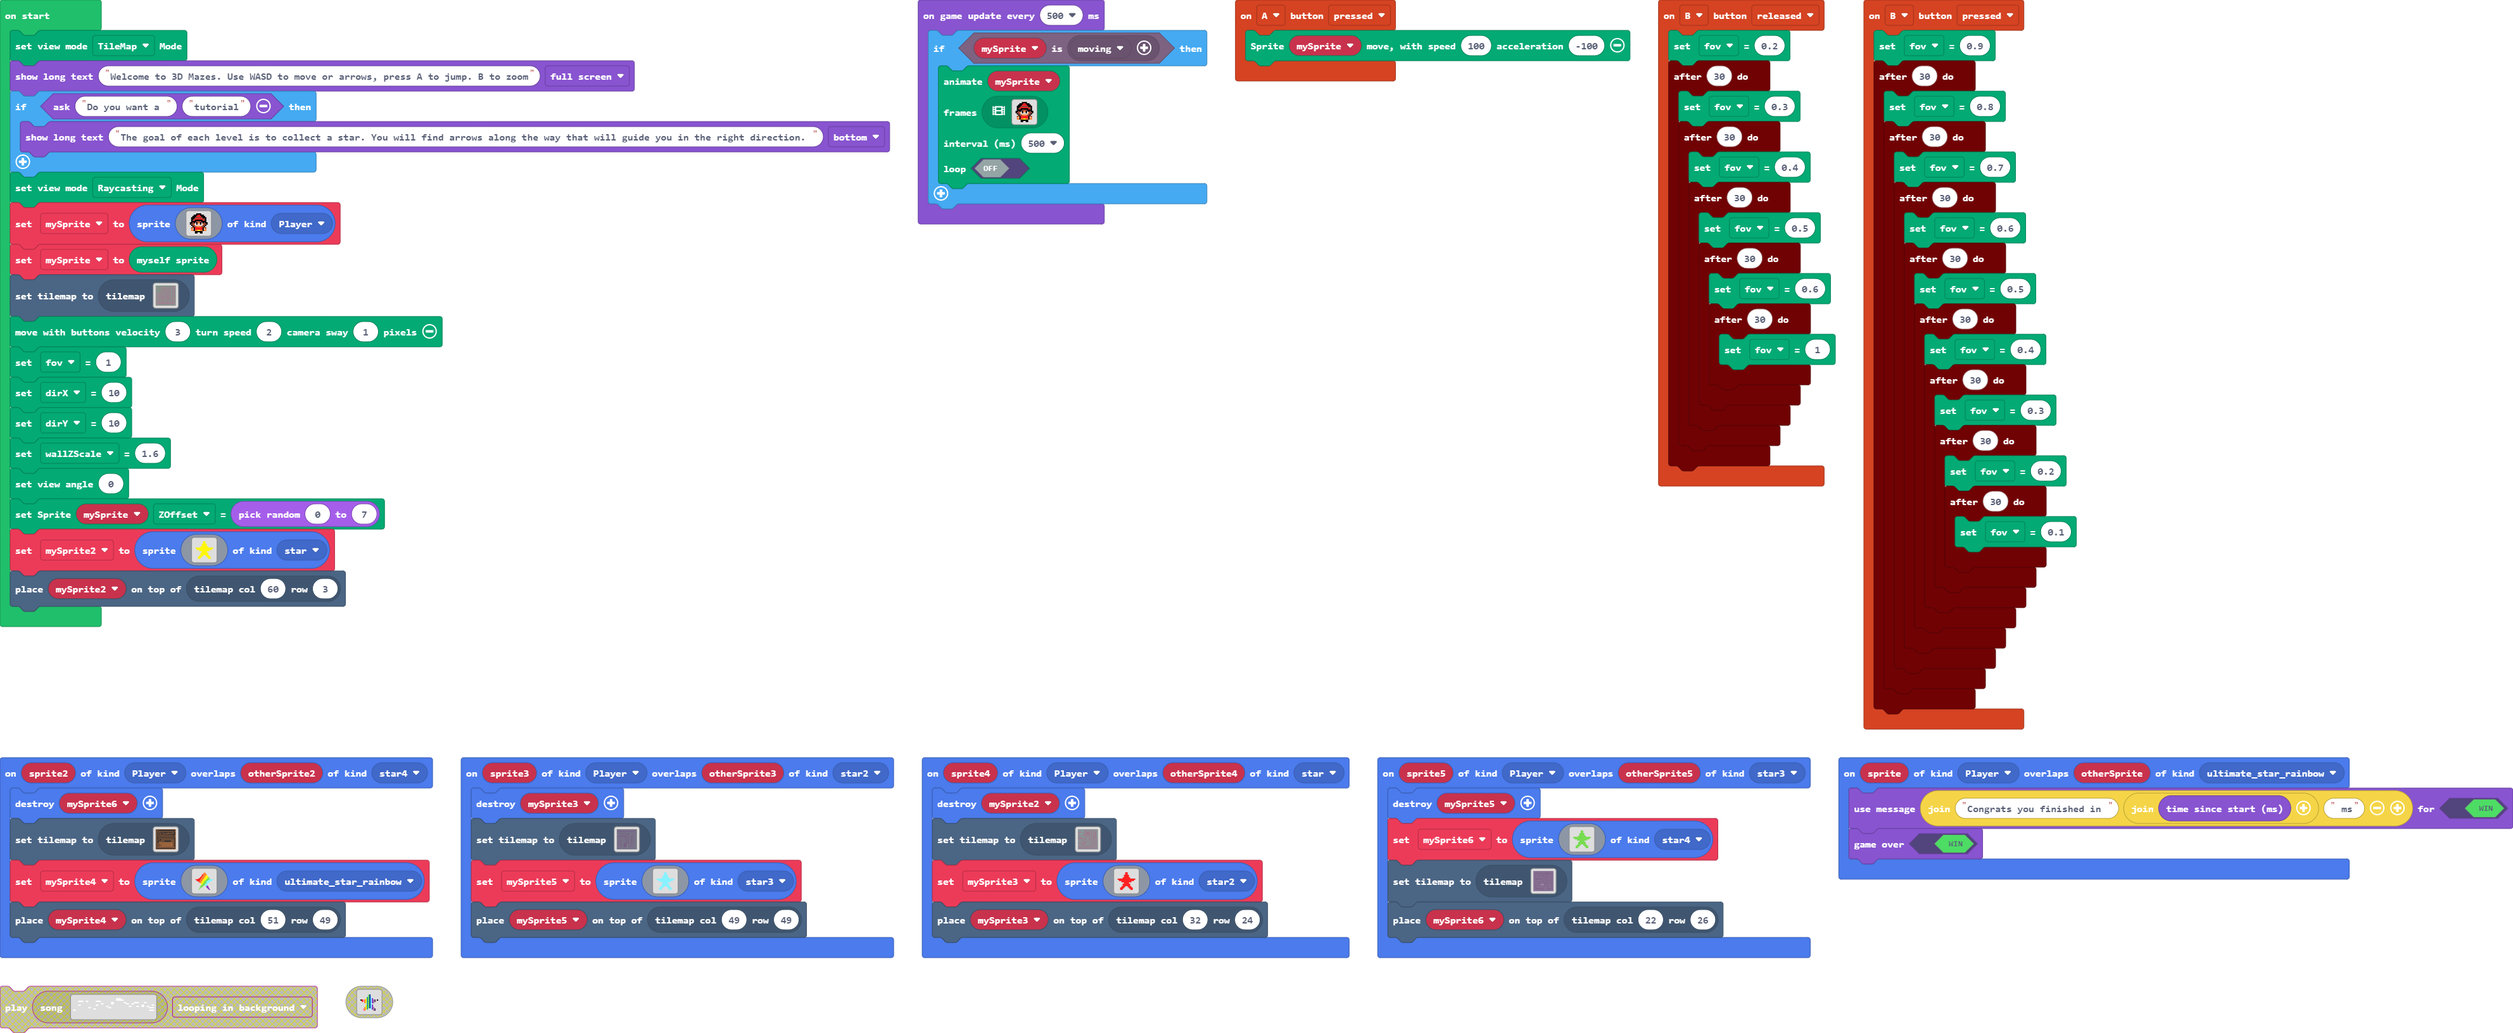
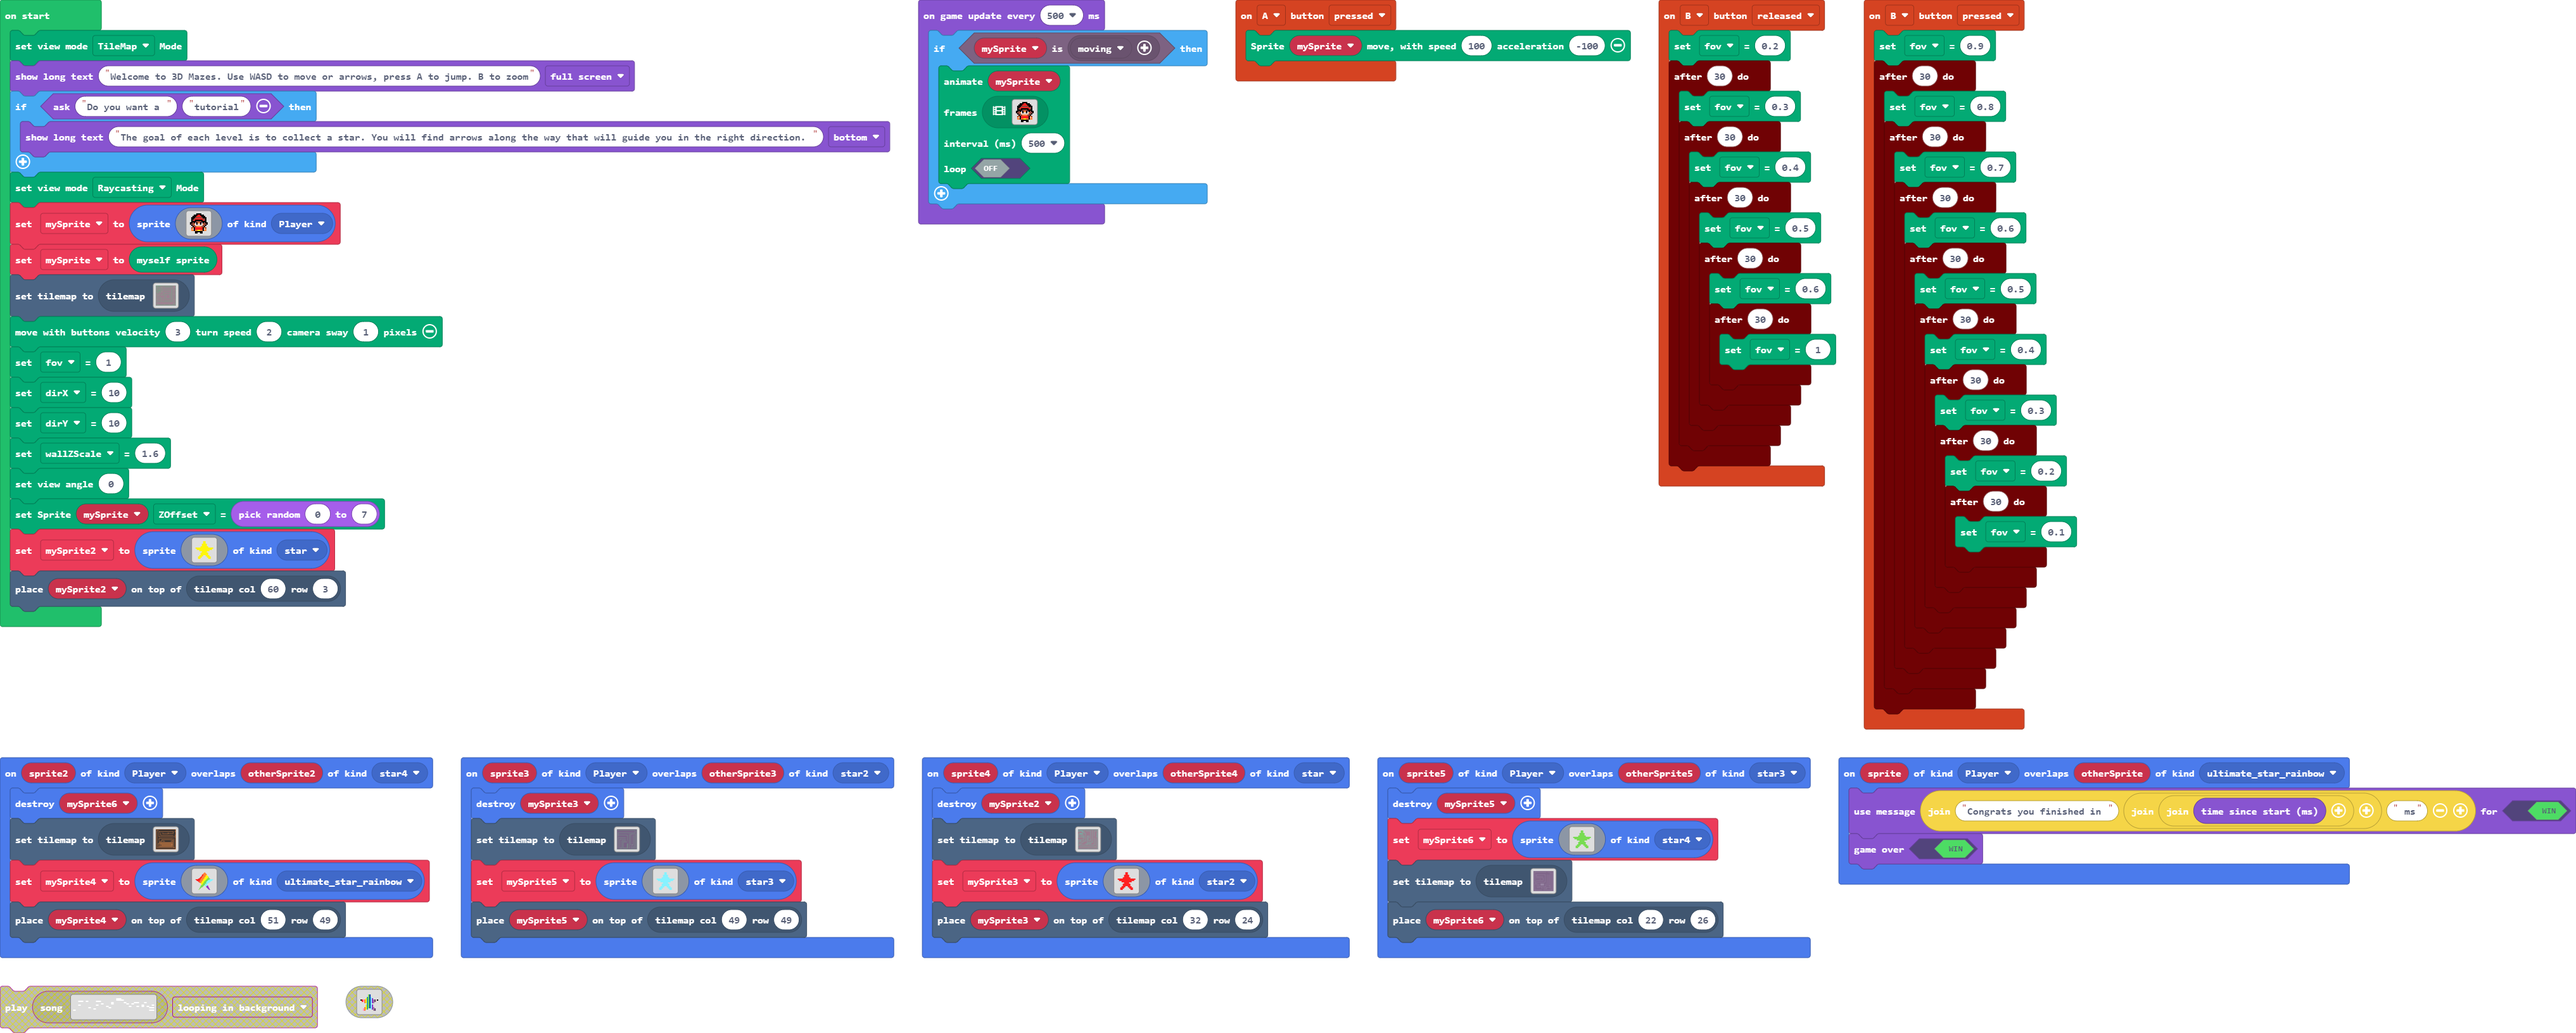
Update main.blocks, README.md, tilemap.g.jres, tilemap.g.ts, main.py

diff --git a/tilemap.g.ts b/tilemap.g.ts
@@ -1085,6 +1085,101 @@ namespace myTiles {
 2..............................................................2
 2222222222222222222222222222222222222222222222222222222222222222
 `, [myTiles.transparency16,sprites.builtin.oceanSand8,sprites.builtin.coral0,myTiles.tile7,myTiles.tile5,myTiles.tile4], TileScale.Sixteen);
+            case "level32":
+            case "level32":return tiles.createTilemap(hex`1000100000000000000000000000000000000000000000000000000000000000000000000000000000000000000000000000000000000000000000000000000000000000000000000000000000000000000000000000000000000000000000000000000000000000000000000000000000000000000000000000000000000000000000000000000000000000000000000000000000000000000000000000000000000000000000000000000000000000000000000000000000000000000000000000000000000000000000000000000000000000000000000000000000000000000000000000000000000000000000000000000000000000000000000000000000000000`, img`
+. . . . . . . . . . . . . . . . 
+. . . . . . . . . . . . . . . . 
+. . . . . . . . . . . . . . . . 
+. . . . . . . . . . . . . . . . 
+. . . . . . . . . . . . . . . . 
+. . . . . . . . . . . . . . . . 
+. . . . . . . . . . . . . . . . 
+. . . . . . . . . . . . . . . . 
+. . . . . . . . . . . . . . . . 
+. . . . . . . . . . . . . . . . 
+. . . . . . . . . . . . . . . . 
+. . . . . . . . . . . . . . . . 
+. . . . . . . . . . . . . . . . 
+. . . . . . . . . . . . . . . . 
+. . . . . . . . . . . . . . . . 
+. . . . . . . . . . . . . . . . 
+`, [myTiles.transparency16], TileScale.Sixteen);
+            case "level33":
+            case "level33":return tiles.createTilemap(hex`1000100000000000000000000000000000000000000000000000000000000000000000000000000000000000000000000000000000000000000000000000000000000000000000000000000000000000000000000000000000000000000000000000000000000000000000000000000000000000000000000000000000000000000000000000000000000000000000000000000000000000000000000000000000000000000000000000000000000000000000000000000000000000000000000000000000000000000000000000000000000000000000000000000000000000000000000000000000000000000000000000000000000000000000000000000000000000`, img`
+. . . . . . . . . . . . . . . . 
+. . . . . . . . . . . . . . . . 
+. . . . . . . . . . . . . . . . 
+. . . . . . . . . . . . . . . . 
+. . . . . . . . . . . . . . . . 
+. . . . . . . . . . . . . . . . 
+. . . . . . . . . . . . . . . . 
+. . . . . . . . . . . . . . . . 
+. . . . . . . . . . . . . . . . 
+. . . . . . . . . . . . . . . . 
+. . . . . . . . . . . . . . . . 
+. . . . . . . . . . . . . . . . 
+. . . . . . . . . . . . . . . . 
+. . . . . . . . . . . . . . . . 
+. . . . . . . . . . . . . . . . 
+. . . . . . . . . . . . . . . . 
+`, [myTiles.transparency16], TileScale.Sixteen);
+            case "level34":
+            case "level34":return tiles.createTilemap(hex`1000100000000000000000000000000000000000000000000000000000000000000000000000000000000000000000000000000000000000000000000000000000000000000000000000000000000000000000000000000000000000000000000000000000000000000000000000000000000000000000000000000000000000000000000000000000000000000000000000000000000000000000000000000000000000000000000000000000000000000000000000000000000000000000000000000000000000000000000000000000000000000000000000000000000000000000000000000000000000000000000000000000000000000000000000000000000000`, img`
+. . . . . . . . . . . . . . . . 
+. . . . . . . . . . . . . . . . 
+. . . . . . . . . . . . . . . . 
+. . . . . . . . . . . . . . . . 
+. . . . . . . . . . . . . . . . 
+. . . . . . . . . . . . . . . . 
+. . . . . . . . . . . . . . . . 
+. . . . . . . . . . . . . . . . 
+. . . . . . . . . . . . . . . . 
+. . . . . . . . . . . . . . . . 
+. . . . . . . . . . . . . . . . 
+. . . . . . . . . . . . . . . . 
+. . . . . . . . . . . . . . . . 
+. . . . . . . . . . . . . . . . 
+. . . . . . . . . . . . . . . . 
+. . . . . . . . . . . . . . . . 
+`, [myTiles.transparency16], TileScale.Sixteen);
+            case "level35":
+            case "level35":return tiles.createTilemap(hex`1000100000000000000000000000000000000000000000000000000000000000000000000000000000000000000000000000000000000000000000000000000000000000000000000000000000000000000000000000000000000000000000000000000000000000000000000000000000000000000000000000000000000000000000000000000000000000000000000000000000000000000000000000000000000000000000000000000000000000000000000000000000000000000000000000000000000000000000000000000000000000000000000000000000000000000000000000000000000000000000000000000000000000000000000000000000000000`, img`
+. . . . . . . . . . . . . . . . 
+. . . . . . . . . . . . . . . . 
+. . . . . . . . . . . . . . . . 
+. . . . . . . . . . . . . . . . 
+. . . . . . . . . . . . . . . . 
+. . . . . . . . . . . . . . . . 
+. . . . . . . . . . . . . . . . 
+. . . . . . . . . . . . . . . . 
+. . . . . . . . . . . . . . . . 
+. . . . . . . . . . . . . . . . 
+. . . . . . . . . . . . . . . . 
+. . . . . . . . . . . . . . . . 
+. . . . . . . . . . . . . . . . 
+. . . . . . . . . . . . . . . . 
+. . . . . . . . . . . . . . . . 
+. . . . . . . . . . . . . . . . 
+`, [myTiles.transparency16], TileScale.Sixteen);
+            case "level36":
+            case "level36":return tiles.createTilemap(hex`1000100000000000000000000000000000000000000000000000000000000000000000000000000000000000000000000000000000000000000000000000000000000000000000000000000000000000000000000000000000000000000000000000000000000000000000000000000000000000000000000000000000000000000000000000000000000000000000000000000000000000000000000000000000000000000000000000000000000000000000000000000000000000000000000000000000000000000000000000000000000000000000000000000000000000000000000000000000000000000000000000000000000000000000000000000000000000`, img`
+. . . . . . . . . . . . . . . . 
+. . . . . . . . . . . . . . . . 
+. . . . . . . . . . . . . . . . 
+. . . . . . . . . . . . . . . . 
+. . . . . . . . . . . . . . . . 
+. . . . . . . . . . . . . . . . 
+. . . . . . . . . . . . . . . . 
+. . . . . . . . . . . . . . . . 
+. . . . . . . . . . . . . . . . 
+. . . . . . . . . . . . . . . . 
+. . . . . . . . . . . . . . . . 
+. . . . . . . . . . . . . . . . 
+. . . . . . . . . . . . . . . . 
+. . . . . . . . . . . . . . . . 
+. . . . . . . . . . . . . . . . 
+. . . . . . . . . . . . . . . . 
+`, [myTiles.transparency16], TileScale.Sixteen);
         }
         return null;
     })

diff --git a/main.py b/main.py
@@ -8,7 +8,7 @@ class SpriteKind:
 
 def on_on_overlap(sprite, otherSprite):
     game.set_game_over_message(True,
-        "Congrats you finished in " + str(game.runtime()) + " ms")
+        "Congrats you finished in " + ("" + str(game.runtime())) + " ms")
     game.game_over(True)
 sprites.on_overlap(SpriteKind.player,
     SpriteKind.ultimate_star_rainbow,
@@ -62,7 +62,92 @@ def on_a_pressed():
     Render.move(mySprite, 100, -100)
 controller.A.on_event(ControllerButtonEvent.PRESSED, on_a_pressed)
 
-def on_on_overlap2(sprite2, otherSprite2):
+def on_b_released():
+    Render.set_attribute(Render.attribute.FOV, 0.2)
+    
+    def on_after9():
+        Render.set_attribute(Render.attribute.FOV, 0.3)
+        
+        def on_after10():
+            Render.set_attribute(Render.attribute.FOV, 0.4)
+            
+            def on_after11():
+                Render.set_attribute(Render.attribute.FOV, 0.5)
+                
+                def on_after12():
+                    Render.set_attribute(Render.attribute.FOV, 0.6)
+                    
+                    def on_after13():
+                        Render.set_attribute(Render.attribute.FOV, 1)
+                    timer.after(30, on_after13)
+                    
+                timer.after(30, on_after12)
+                
+            timer.after(30, on_after11)
+            
+        timer.after(30, on_after10)
+        
+    timer.after(30, on_after9)
+    
+controller.B.on_event(ControllerButtonEvent.RELEASED, on_b_released)
+
+def on_on_overlap2(sprite4, otherSprite4):
+    global mySprite3
+    sprites.destroy(mySprite2)
+    tiles.set_current_tilemap(tilemap("""
+        level3
+    """))
+    mySprite3 = sprites.create(img("""
+            . . . . . . . . . . . . . . . . 
+                    . . . . . . . 2 2 . . . . . . . 
+                    . . . . . . . 2 2 . . . . . . . 
+                    . . . . . . 2 2 2 2 . . . . . . 
+                    . . . . . . 2 2 2 2 . . . . . . 
+                    . . . . . 2 2 2 2 2 2 . . . . . 
+                    . 2 2 2 2 2 2 2 2 2 2 2 2 2 2 . 
+                    . . 2 2 2 2 2 2 2 2 2 2 2 2 . . 
+                    . . . . 2 2 2 2 2 2 2 2 . . . . 
+                    . . . . . . 2 2 2 2 . . . . . . 
+                    . . . . . 2 2 2 2 2 2 . . . . . 
+                    . . . . . 2 2 2 2 2 2 . . . . . 
+                    . . . . 2 2 2 . . 2 2 2 . . . . 
+                    . . . 2 2 2 . . . . 2 2 2 . . . 
+                    . . . 2 2 . . . . . . 2 2 . . . 
+                    . . . . . . . . . . . . . . . .
+        """),
+        SpriteKind.star2)
+    tiles.place_on_tile(mySprite3, tiles.get_tile_location(32, 24))
+sprites.on_overlap(SpriteKind.player, SpriteKind.star, on_on_overlap2)
+
+def on_on_overlap3(sprite5, otherSprite5):
+    global mySprite6
+    sprites.destroy(mySprite5)
+    mySprite6 = sprites.create(img("""
+            . . . . . . . . . . . . . . . . 
+                    . . . . . . . 7 7 . . . . . . . 
+                    . . . . . . . 7 7 . . . . . . . 
+                    . . . . . . 7 7 7 7 . . . . . . 
+                    . . . . . . 7 7 7 7 . . . . . . 
+                    . . . . . 7 7 7 7 7 7 . . . . . 
+                    . 7 7 7 7 7 7 7 7 7 7 7 7 7 7 . 
+                    . . 7 7 7 7 7 7 7 7 7 7 7 7 . . 
+                    . . . . 7 7 7 7 7 7 7 7 . . . . 
+                    . . . . . . 7 7 7 7 . . . . . . 
+                    . . . . . 7 7 7 7 7 7 . . . . . 
+                    . . . . . 7 7 7 7 7 7 . . . . . 
+                    . . . . 7 7 7 . . 7 7 7 . . . . 
+                    . . . 7 7 7 . . . . 7 7 7 . . . 
+                    . . . 7 7 . . . . . . 7 7 . . . 
+                    . . . . . . . . . . . . . . . .
+        """),
+        SpriteKind.star4)
+    tiles.set_current_tilemap(tilemap("""
+        level19
+    """))
+    tiles.place_on_tile(mySprite6, tiles.get_tile_location(22, 26))
+sprites.on_overlap(SpriteKind.player, SpriteKind.star3, on_on_overlap3)
+
+def on_on_overlap4(sprite2, otherSprite2):
     global mySprite4
     sprites.destroy(mySprite6)
     tiles.set_current_tilemap(tilemap("""
@@ -104,9 +189,9 @@ def on_on_overlap2(sprite2, otherSprite2):
         """),
         SpriteKind.ultimate_star_rainbow)
     tiles.place_on_tile(mySprite4, tiles.get_tile_location(51, 49))
-sprites.on_overlap(SpriteKind.player, SpriteKind.star4, on_on_overlap2)
+sprites.on_overlap(SpriteKind.player, SpriteKind.star4, on_on_overlap4)
 
-def on_on_overlap3(sprite3, otherSprite3):
+def on_on_overlap5(sprite3, otherSprite3):
     global mySprite5
     sprites.destroy(mySprite3)
     tiles.set_current_tilemap(tilemap("""
@@ -132,97 +217,12 @@ def on_on_overlap3(sprite3, otherSprite3):
         """),
         SpriteKind.star3)
     tiles.place_on_tile(mySprite5, tiles.get_tile_location(49, 49))
-sprites.on_overlap(SpriteKind.player, SpriteKind.star2, on_on_overlap3)
+sprites.on_overlap(SpriteKind.player, SpriteKind.star2, on_on_overlap5)
 
-def on_b_released():
-    Render.set_attribute(Render.attribute.FOV, 0.2)
-    
-    def on_after9():
-        Render.set_attribute(Render.attribute.FOV, 0.3)
-        
-        def on_after10():
-            Render.set_attribute(Render.attribute.FOV, 0.4)
-            
-            def on_after11():
-                Render.set_attribute(Render.attribute.FOV, 0.5)
-                
-                def on_after12():
-                    Render.set_attribute(Render.attribute.FOV, 0.6)
-                    
-                    def on_after13():
-                        Render.set_attribute(Render.attribute.FOV, 1)
-                    timer.after(30, on_after13)
-                    
-                timer.after(30, on_after12)
-                
-            timer.after(30, on_after11)
-            
-        timer.after(30, on_after10)
-        
-    timer.after(30, on_after9)
-    
-controller.B.on_event(ControllerButtonEvent.RELEASED, on_b_released)
-
-def on_on_overlap4(sprite4, otherSprite4):
-    global mySprite3
-    sprites.destroy(mySprite2)
-    tiles.set_current_tilemap(tilemap("""
-        level3
-    """))
-    mySprite3 = sprites.create(img("""
-            . . . . . . . . . . . . . . . . 
-                    . . . . . . . 2 2 . . . . . . . 
-                    . . . . . . . 2 2 . . . . . . . 
-                    . . . . . . 2 2 2 2 . . . . . . 
-                    . . . . . . 2 2 2 2 . . . . . . 
-                    . . . . . 2 2 2 2 2 2 . . . . . 
-                    . 2 2 2 2 2 2 2 2 2 2 2 2 2 2 . 
-                    . . 2 2 2 2 2 2 2 2 2 2 2 2 . . 
-                    . . . . 2 2 2 2 2 2 2 2 . . . . 
-                    . . . . . . 2 2 2 2 . . . . . . 
-                    . . . . . 2 2 2 2 2 2 . . . . . 
-                    . . . . . 2 2 2 2 2 2 . . . . . 
-                    . . . . 2 2 2 . . 2 2 2 . . . . 
-                    . . . 2 2 2 . . . . 2 2 2 . . . 
-                    . . . 2 2 . . . . . . 2 2 . . . 
-                    . . . . . . . . . . . . . . . .
-        """),
-        SpriteKind.star2)
-    tiles.place_on_tile(mySprite3, tiles.get_tile_location(32, 24))
-sprites.on_overlap(SpriteKind.player, SpriteKind.star, on_on_overlap4)
-
-def on_on_overlap5(sprite5, otherSprite5):
-    global mySprite6
-    sprites.destroy(mySprite5)
-    mySprite6 = sprites.create(img("""
-            . . . . . . . . . . . . . . . . 
-                    . . . . . . . 7 7 . . . . . . . 
-                    . . . . . . . 7 7 . . . . . . . 
-                    . . . . . . 7 7 7 7 . . . . . . 
-                    . . . . . . 7 7 7 7 . . . . . . 
-                    . . . . . 7 7 7 7 7 7 . . . . . 
-                    . 7 7 7 7 7 7 7 7 7 7 7 7 7 7 . 
-                    . . 7 7 7 7 7 7 7 7 7 7 7 7 . . 
-                    . . . . 7 7 7 7 7 7 7 7 . . . . 
-                    . . . . . . 7 7 7 7 . . . . . . 
-                    . . . . . 7 7 7 7 7 7 . . . . . 
-                    . . . . . 7 7 7 7 7 7 . . . . . 
-                    . . . . 7 7 7 . . 7 7 7 . . . . 
-                    . . . 7 7 7 . . . . 7 7 7 . . . 
-                    . . . 7 7 . . . . . . 7 7 . . . 
-                    . . . . . . . . . . . . . . . .
-        """),
-        SpriteKind.star4)
-    tiles.set_current_tilemap(tilemap("""
-        level19
-    """))
-    tiles.place_on_tile(mySprite6, tiles.get_tile_location(22, 26))
-sprites.on_overlap(SpriteKind.player, SpriteKind.star3, on_on_overlap5)
-
-mySprite5: Sprite = None
-mySprite3: Sprite = None
 mySprite4: Sprite = None
 mySprite6: Sprite = None
+mySprite5: Sprite = None
+mySprite3: Sprite = None
 mySprite2: Sprite = None
 mySprite: Sprite = None
 Render.set_view_mode(ViewMode.TILEMAP_VIEW)

diff --git a/README.md b/README.md
@@ -31,3 +31,6 @@ This image may take a few minutes to refresh.
 
 * for PXT/arcade
 <script src="https://makecode.com/gh-pages-embed.js"></script><script>makeCodeRender("{{ site.makecode.home_url }}", "{{ site.github.owner_name }}/{{ site.github.repository_name }}");</
+
+
+this game is project is programmed on makecode arcade
